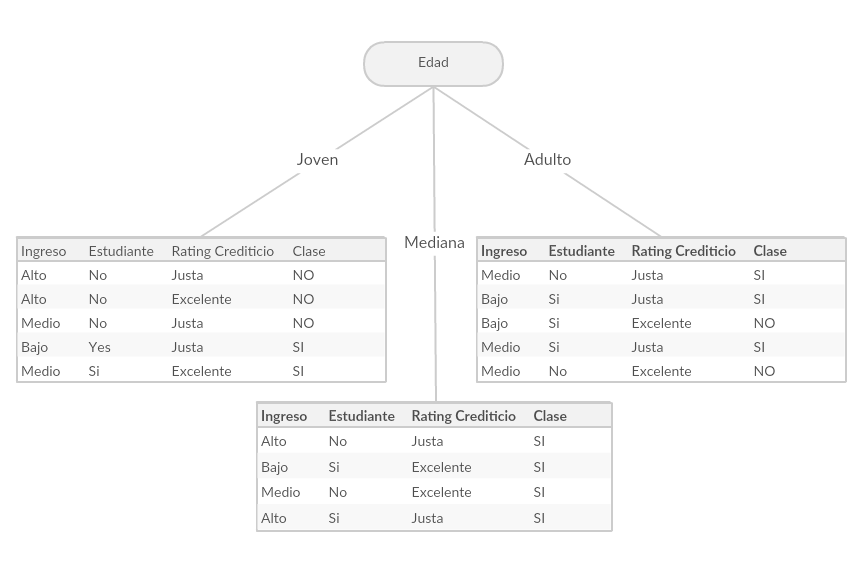
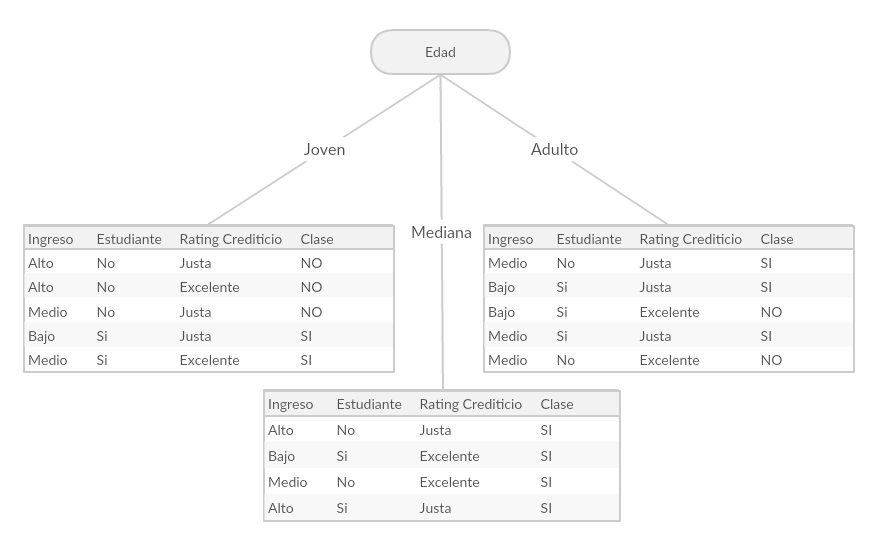
Se agrego el arbol final del ejemplo

diff --git a/capitulo-3/capitulo-3.tex b/capitulo-3/capitulo-3.tex
@@ -115,7 +115,7 @@ El algoritmo C4.5, ilustrado en el Algoritmo \ref{algoC45}, presenta las siguien
 
 \section{Información de Ganancia / Entropía} (REVISAR COMPLETO)
 Tanto el algoritmo C4.5 como su predecesor el algoritmo ID3 utilizan la entropía como medida de selección para cada atributo.
-En donde, dado un nodo $N$ que representa las tuplas de la partición $D$, el atributo con mayor valor de ganancia es elegido para la división de $N$. Con este enfoque, el atributo reduce al mínimo la información necesaria para clasificar las tuplas de las particiones resultantes y refleja la menor aleatoriedad o impureza de la partición. Este enfoque minimiza el número esperado de  ensayos necesarios para clasificar una tupla dada y garantiza un que se encuentre un árbol simple, pero no necesariamente el arbol más simple.
+En donde, dado un nodo $N$ que representa las tuplas de la partición $D$, el atributo con mayor valor de ganancia es elegido para la división de $N$. Con este enfoque, el atributo reduce al mínimo la información necesaria para clasificar las tuplas de las particiones resultantes y refleja la menor aleatoriedad o impureza de la partición. Este enfoque minimiza el número esperado de ensayos necesarios para clasificar una tupla dada y garantiza un que se encuentre un árbol simple, pero no necesariamente el arbol más simple.
 
 La información de ganancia necesaria para clasificar una tupla en $D$ está dada por:
 
@@ -170,7 +170,7 @@ Info(D) = - \frac{9}{14}\log_2(\frac{9}{14}) - \frac{5}{14}\log_2(\frac{5}{14})	
 		6   & Adulto  & Bajo    & Si         & Excelente         & NO                 \\ 
 		7   & Mediana & Bajo    & Si         & Excelente         & SI                 \\ 
 		8   & Joven   & Medio   & No         & Justa             & NO                 \\ 
-		9   & Joven   & Bajo    & Yes        & Justa             & SI                 \\ 
+		9   & Joven   & Bajo    & Si        & Justa              & SI                 \\ 
 		10  & Adulto  & Medio   & Si         & Justa             & SI                 \\
 		11  & Joven   & Medio   & Si         & Excelente         & SI                 \\
 		12  & Mediana & Medio   & No         & Excelente         & SI                 \\
@@ -217,7 +217,12 @@ Dado que el atributo $Edad$ tiene mayor ganancia de información, es seleccionad
 Notese que las tuplas en la partición $Edad = Mediana$ pertenecen todas a la clase $SI$, por lo tanto en esta rama se crea una hoja con etiqueta $SI$. Para las particiones $Edad = Joven$ y $Edad = Adulto$, el proceso de deducción se continua hasta que se generen nodos hoja que clasifican las tuplas en una sola clase. El
  árbol de decisión final deducido mediante algoritmo C4.5 se muestra en la \figref{fig:arbolFinal}.
  
-(CREAR FIGURA CON ARBOL FINAL)
+\begin{figure}[!tbph]
+	\centering
+	\includegraphics[width=0.7\linewidth]{capitulo-3/graphics/dtree_parti_final}
+	\caption[Árbol de decisión Final]{Árbol de decisión final: Luego de finalizar el proceso del C4.5 }
+	\label{fig:arbolFinal}
+\end{figure}
 
 \section{Métricas de evaluación y Matriz de Confusión}
 En general, la selección del algoritmos de clasificación para HAR ha sido apoyada meramente por evidencias empíricas (referencias). La gran mayoría de los estudios utilizan una validación cruzada con pruebas estadísticas para comparar el rendimiento de los clasificadores para un conjunto de datos determinado, como se visualiza en la \figref{fig:evaluacion}.
@@ -311,10 +316,8 @@ Exhaustividad = \frac{TP}{TP + FN} = \frac{6.954}{6.954 + 46} = 0,9934
 \begin{equation*}
 Valor-F = 2 \cdot \frac{\mbox{Precisión} \cdot Exhaustividad}{\mbox{Precisión} + Exhaustividad} 
 		= 2 \cdot \frac{\mbox{0,9440} \cdot 0,9934}{\mbox{0,9440} + 0,9934}
-		= 0,4840
+		= 0,9680
 \end{equation*}
 
-Teniendo en cuenta estas métricas para la muestra de 10.000 tuplas, podemos suponer el que modelo generado de ejemplo tiene unos altos valores de exactitud, precisión, y exhaustividad, lo cual se puede apreciar por la baja tasa de falsos positivos y negativos. Respecto al Valor-F...
-
-(FAlTA UNA CONCLUSION EXPLICANDO LA MAGNITUD DE LOS VALORES Y EVALUAR SI EL SUPUESTO MODELO GENERADO ES BUENO)
+Teniendo en cuenta estas métricas para la muestra de 10.000 tuplas, podemos suponer el que modelo generado de ejemplo tiene unos altos valores de exactitud, precisión, y exhaustividad, lo cual se puede apreciar por la baja tasa de falsos positivos y negativos. Respecto al Valor-F, el tener valores altos de precisión y exhaustividad, da un valor muy alto, ya que el Valor-F es de forma general la media armónica de ambos.
 

diff --git a/tesis.tex b/tesis.tex
@@ -24,6 +24,8 @@
 \usepackage[table]{xcolor} %para colorear las tablas
 % para las tablas
 
+\usepackage{listings,xcolor}
+
 %se importan las configuraciones custmizdas realizadas.
 \input{./util/custom}
 \input{./util/fancyhdr}
